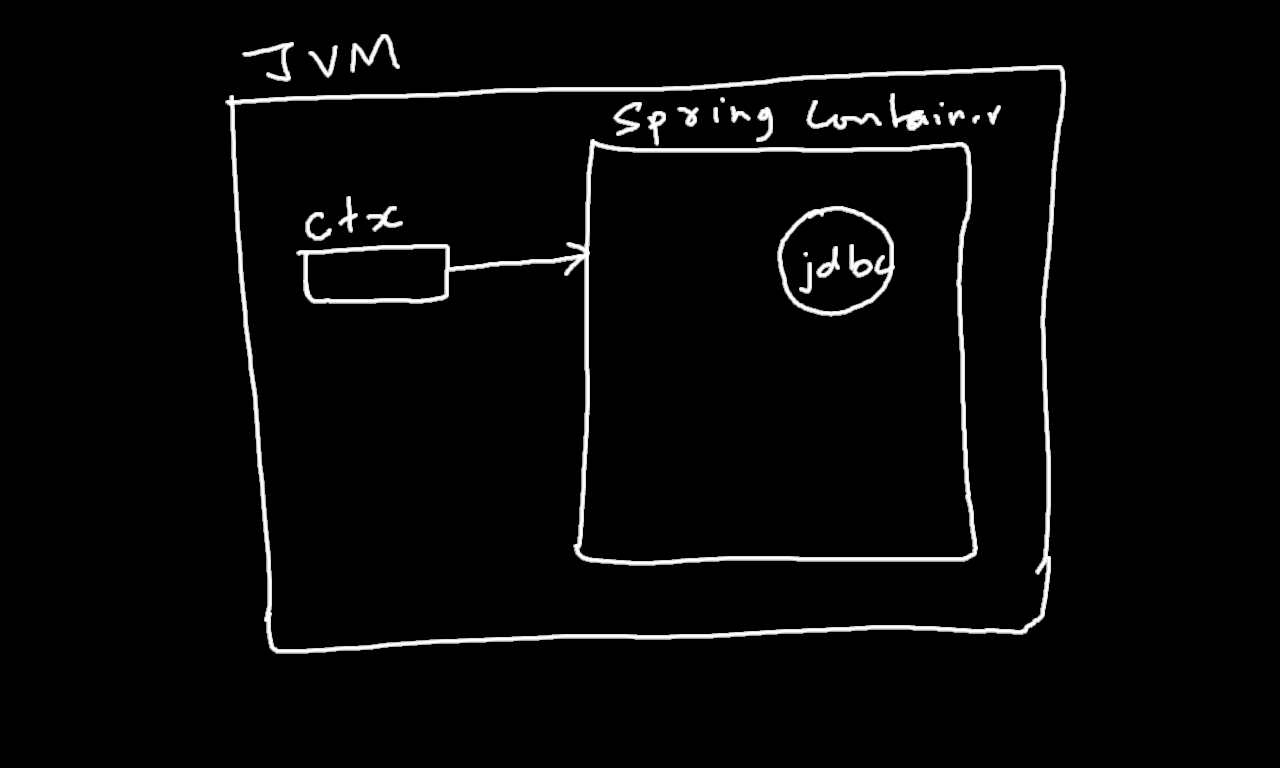
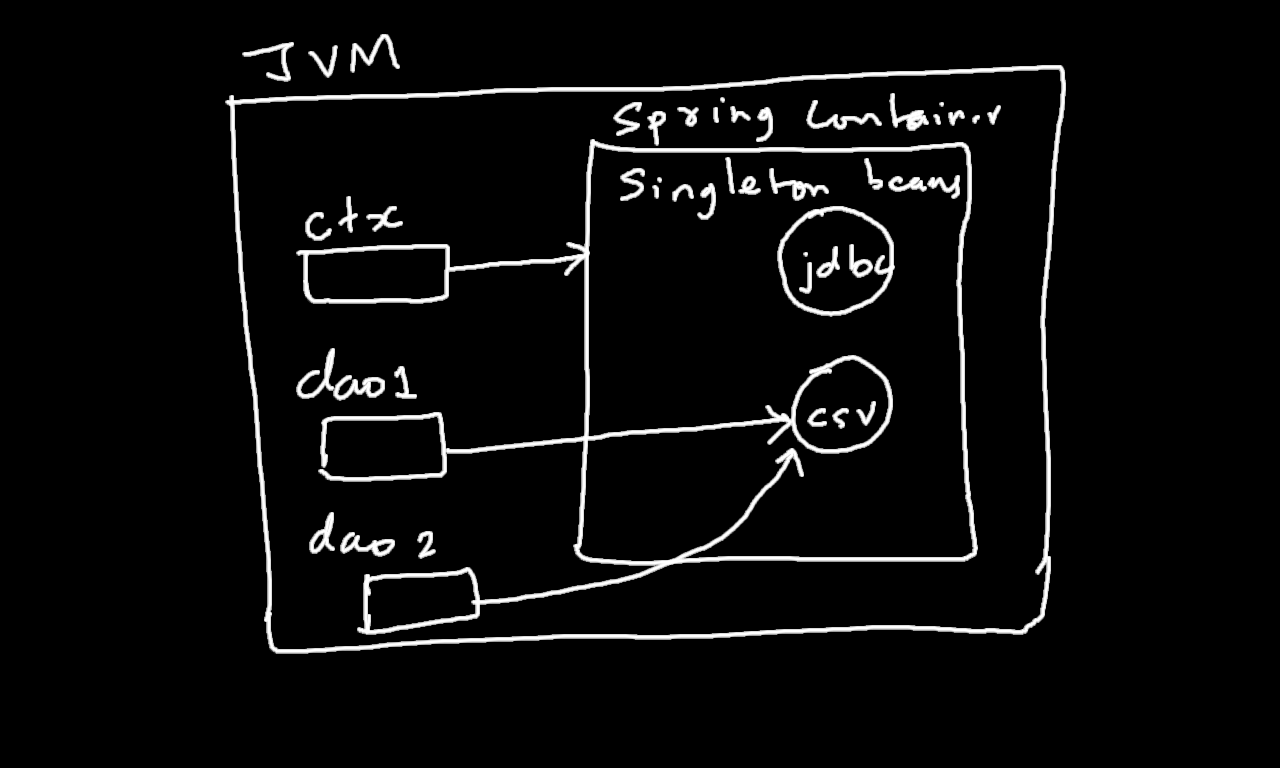
🇮🇳

diff --git a/Eclipse_workspace/training/src/main/java/com/hpe/training/dao/impl/JdbcProductDao.java b/Eclipse_workspace/training/src/main/java/com/hpe/training/dao/impl/JdbcProductDao.java
@@ -1,13 +1,98 @@
 package com.hpe.training.dao.impl;
 
+import java.sql.Connection;
+import java.sql.DriverManager;
+import java.sql.PreparedStatement;
+import java.sql.ResultSet;
+import java.sql.SQLException;
+
+import javax.sql.DataSource;
+
 import com.hpe.training.dao.DaoException;
 import com.hpe.training.dao.ProductDao;
 
 public class JdbcProductDao implements ProductDao {
 
+	private String driverClassName;
+	private String url;
+	private String username;
+	private String password;
+	
+	private DataSource dataSource;
+
+	public JdbcProductDao() {
+		// System.out.println("JdbcProductDao instantiated!");
+	}
+
+	public JdbcProductDao(String driverClassName, String url, String username, String password) {
+		this.driverClassName = driverClassName;
+		this.url = url;
+		this.username = username;
+		this.password = password;
+	}
+
+	// a setter is a.k.a a writable property (mutator)
+	// setXyz --> property "xyz"
+
+	// this function is a writable property called "driverClassName"
+	public void setDriverClassName(String driverClassName) {
+		this.driverClassName = driverClassName;
+	}
+
+	public void setUrl(String url) {
+		this.url = url;
+	}
+
+	public void setUsername(String username) {
+		this.username = username;
+	}
+
+	public void setPassword(String password) {
+		this.password = password;
+	}
+	
+	// writable property called "dataSource"
+	public void setDataSource(DataSource dataSource) {
+		this.dataSource = dataSource;
+	}
+	
+
+	private Connection openConnection() throws ClassNotFoundException, SQLException {
+		// if the connection pool exists, use a connection from the same
+		if (dataSource != null) {
+			return dataSource.getConnection();
+		}
+
+		// if the pool doesn't exist, then try to create a new connection
+		Class.forName(driverClassName);
+		return DriverManager.getConnection(url, username, password);
+	}
+
 	@Override
 	public int count() throws DaoException {
-		return 100;
+		
+		String sql = "select count(*) from products";
+		try(
+			Connection conn = openConnection();
+			PreparedStatement stmt = conn.prepareStatement(sql);
+			ResultSet rs = stmt.executeQuery();
+		) {
+			rs.next();
+			return rs.getInt(1);
+		}
+		catch(Exception ex) {
+			throw new DaoException(ex);
+		}
+		
 	}
 
 }
+
+
+
+
+
+
+
+
+

diff --git a/Eclipse_workspace/training/src/main/java/com/hpe/training/programs/P15_SpringAsFactory.java b/Eclipse_workspace/training/src/main/java/com/hpe/training/programs/P15_SpringAsFactory.java
@@ -6,18 +6,22 @@ import com.hpe.training.dao.DaoException;
 import com.hpe.training.dao.ProductDao;
 
 public class P15_SpringAsFactory {
-	
+
 	public static void main(String[] args) throws DaoException {
 		// a variable representing the spring container
 		ClassPathXmlApplicationContext ctx;
-		
+
+		// System.out.println("pass-1");
 		// an object of spring container
 		ctx = new ClassPathXmlApplicationContext("context1.xml");
-		
-		ProductDao dao = ctx.getBean(ProductDao.class);
-		int pc = dao.count();
+		// System.out.println("pass-2");
+
+		ProductDao dao1 = ctx.getBean("jdbc", ProductDao.class);
+		int pc = dao1.count();
 		System.out.println("There are " + pc + " products.");
-		
+
+		// ProductDao dao2 = ctx.getBean("jdbc", ProductDao.class);
+		// System.out.println("dao1==dao2 is " + (dao1 == dao2));
 		ctx.close();
 	}
 

diff --git a/Eclipse_workspace/training/src/main/java/com/hpe/training/dao/impl/CsvProductDao.java b/Eclipse_workspace/training/src/main/java/com/hpe/training/dao/impl/CsvProductDao.java
@@ -4,6 +4,10 @@ import com.hpe.training.dao.DaoException;
 import com.hpe.training.dao.ProductDao;
 
 public class CsvProductDao implements ProductDao {
+	
+	public CsvProductDao() {
+		// System.out.println("CsvProductDao instantiated!");
+	}
 
 	@Override
 	public int count() throws DaoException {
